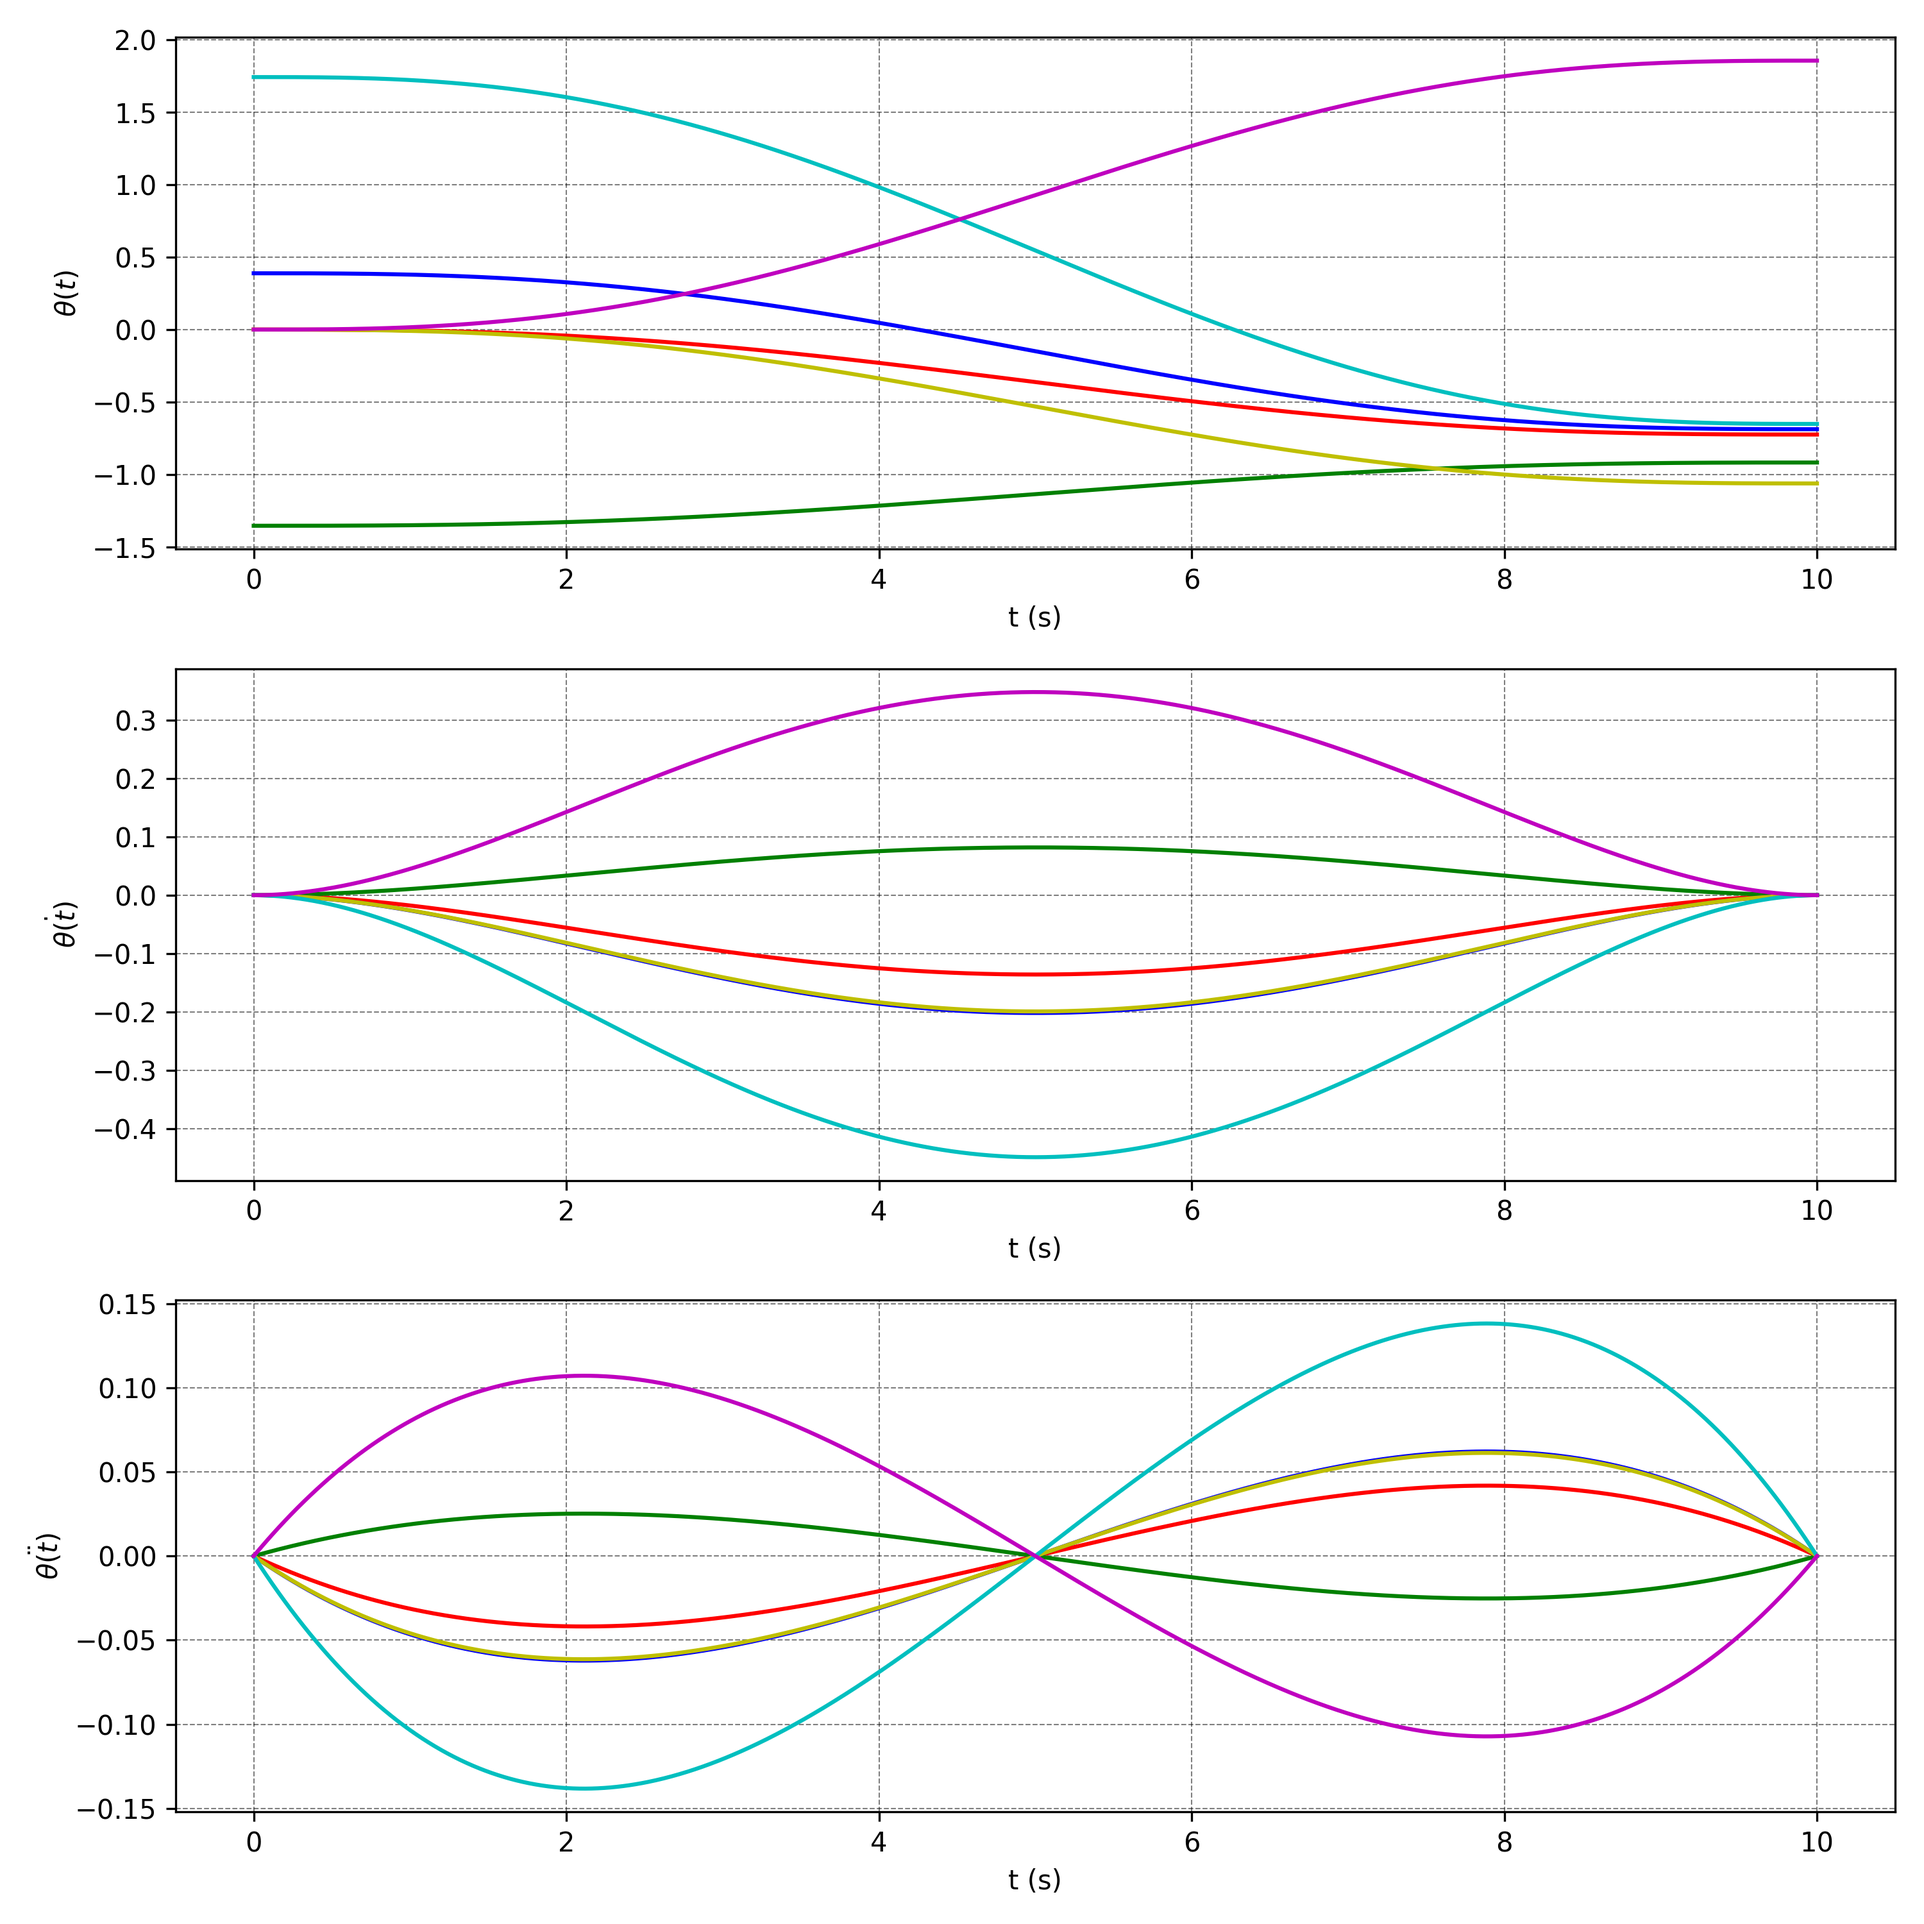
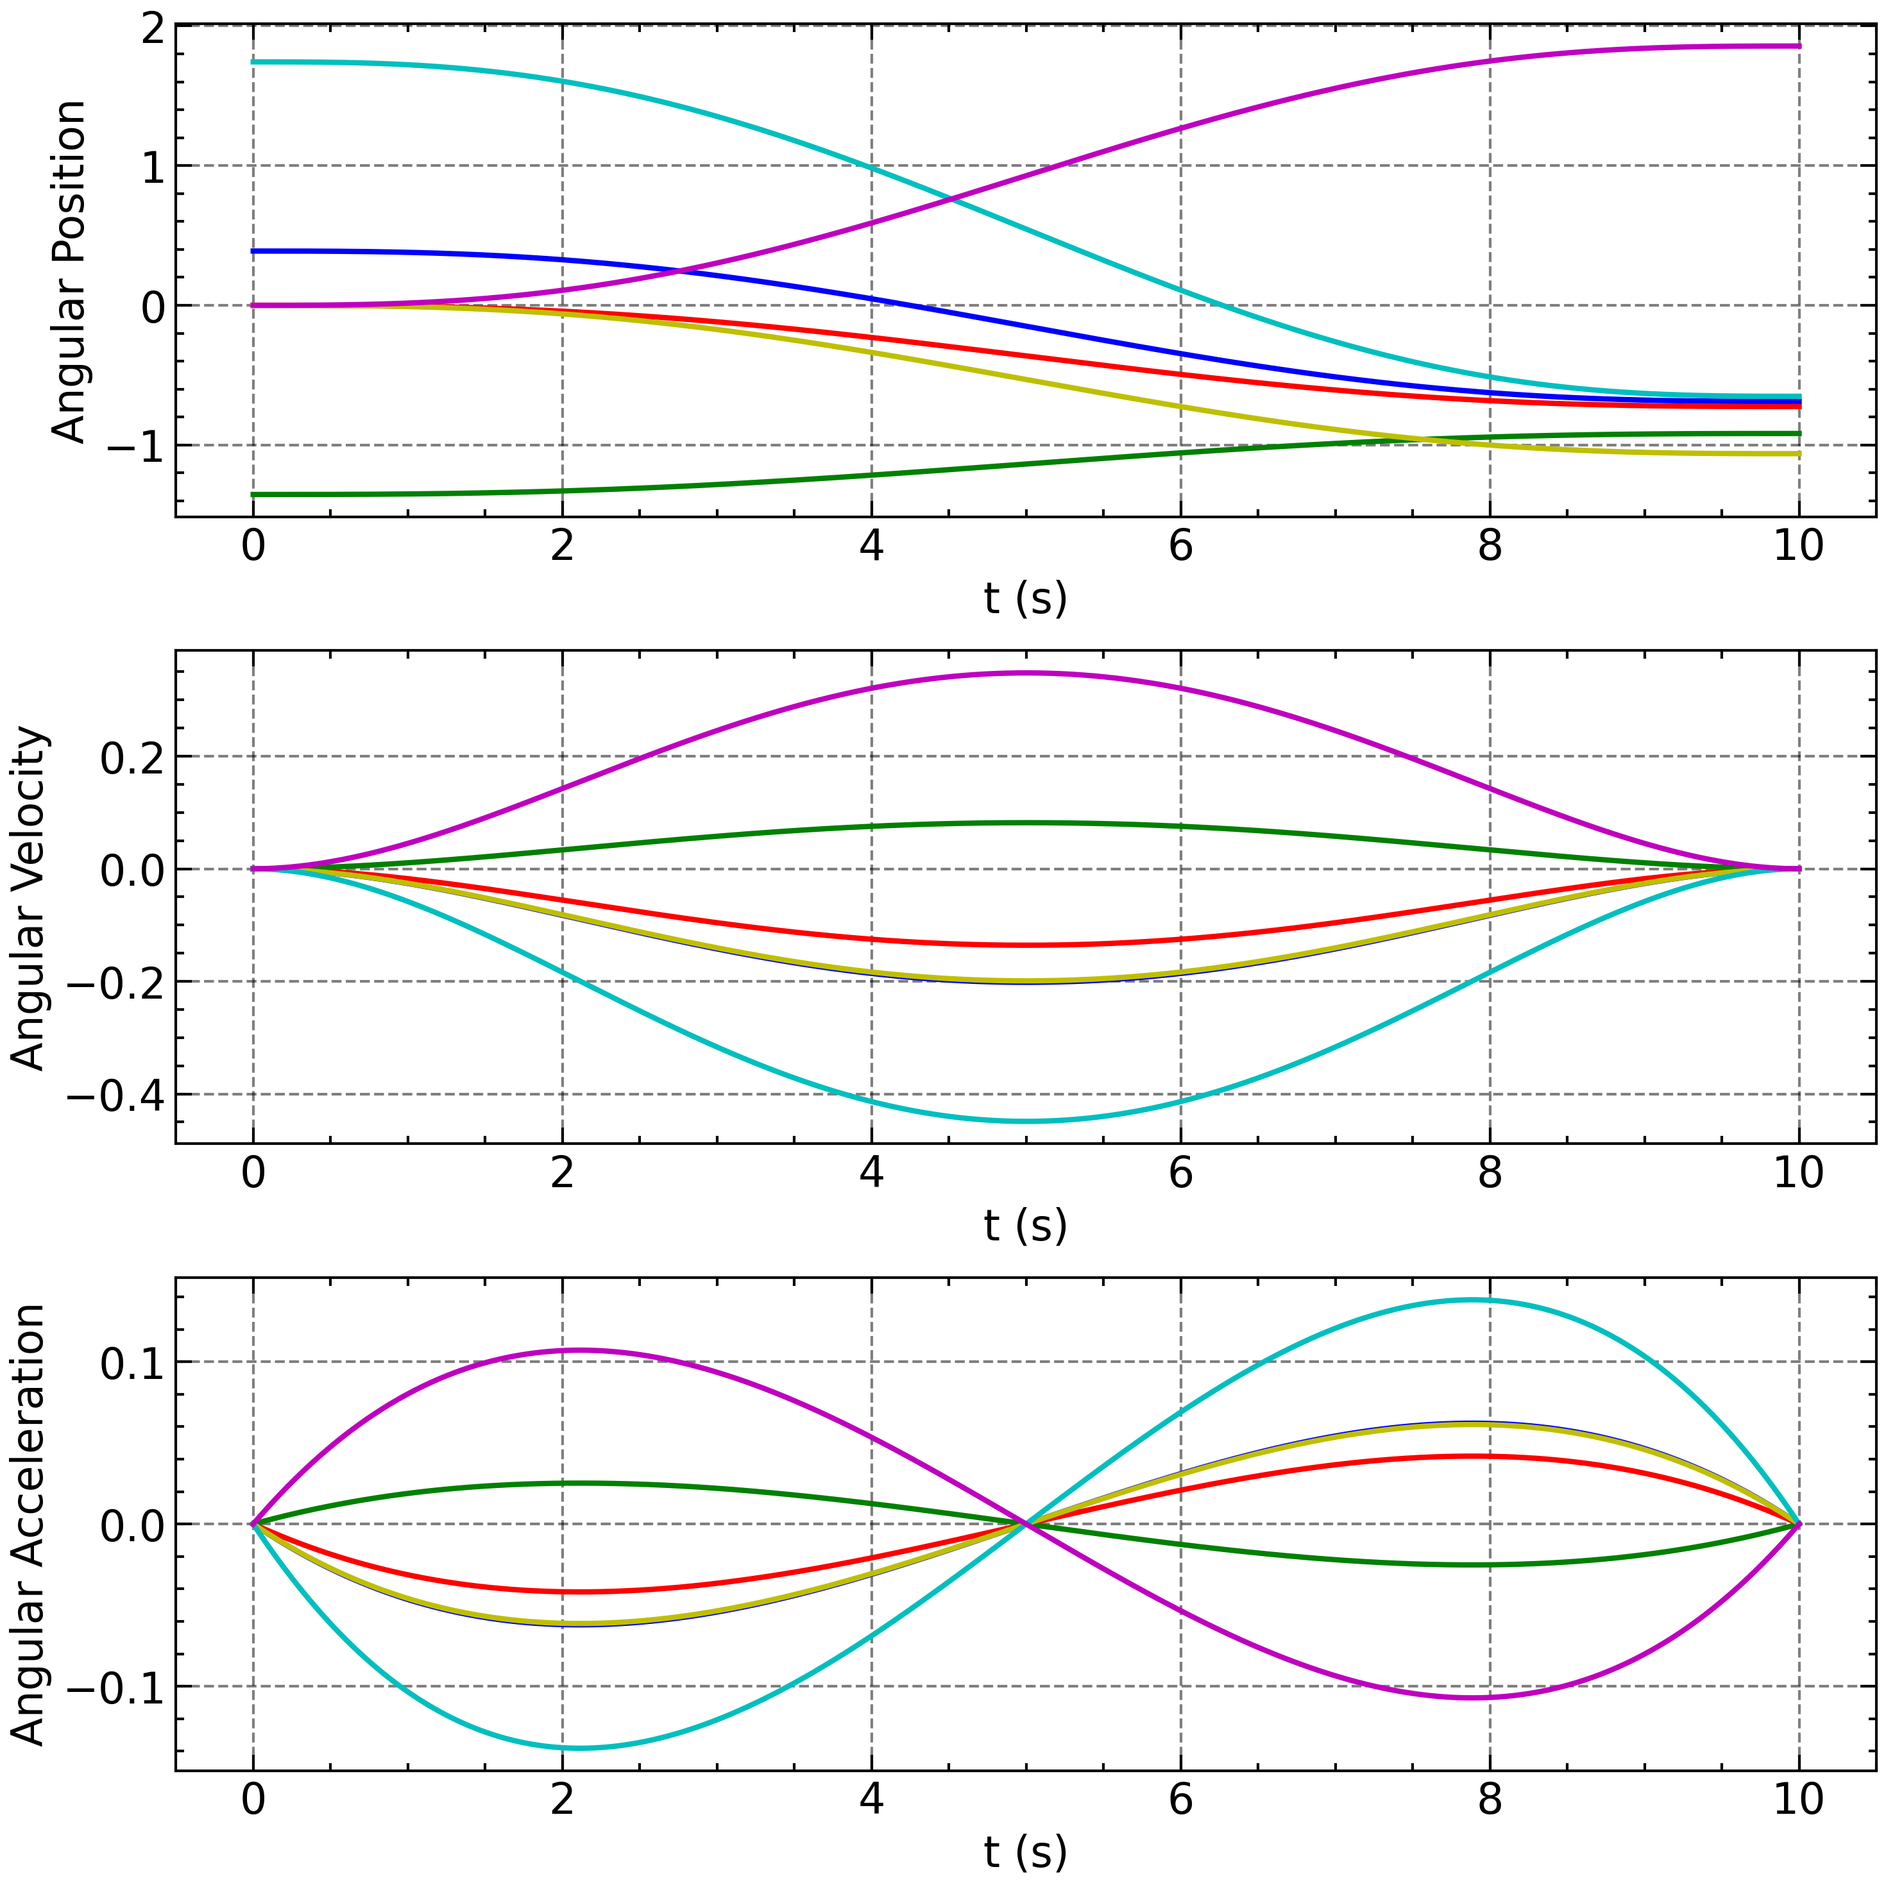
joint limits

diff --git a/lib/inverse_kinematics/__init__.py b/lib/inverse_kinematics/__init__.py
@@ -5,7 +5,7 @@ import sympy as sp
 
 from lib.forward_kinematics import ForwardKinematic
 from lib.frame import x_y_z_rotation_matrix, translation_matrix
-from lib.utils import matrix_log6, inverse_transformation, se3_to_vec
+from lib.utils import matrix_log6, inverse_transformation, se3_to_vec, normalize_angle_between_limits
 
 
 def ik_position(
@@ -15,7 +15,8 @@ def ik_position(
         f_tolerance=1e-7,
         max_iterations=1500,
         lmbd=.1,
-        verbose=False
+        verbose=False,
+        normalize=False
 ):
     desired_position = np.array([
         [desired_position[0]],
@@ -24,7 +25,7 @@ def ik_position(
     ])
 
     if initial_guess is None:
-        initial_guess = np.random.randn(fk.len_links)
+        initial_guess = np.random.uniform(0, 2 * np.pi, fk.len_links)
 
     theta_i = initial_guess.copy()
 
@@ -50,6 +51,19 @@ def ik_position(
 
     # Use theta_i + fk.offset in external applications
     # For calculations using this lib, use theta_i with the offset
+
+    if normalize:
+        for i in range(fk.len_links):
+            link_limits = fk.links[i].limits
+
+            theta = normalize_angle_between_limits(
+                theta_i[i],
+                link_limits[0],
+                link_limits[1]
+            )
+
+            theta_i[i] = theta
+
     return theta_i, desired_position, not error
 
 
@@ -57,13 +71,13 @@ def ik(
         desired_transformation=None,
         fk: ForwardKinematic = None,
         initial_guess=None,
-        epsilon_wb=1e-7,
-        epsilon_vb=1e-7,
-        max_iterations=1500,
+        epsilon_wb=1e-5,
+        epsilon_vb=1e-5,
+        max_iterations=1000,
         lmbd=.1,
         verbose=False,
         only_position=False,
-        normalize=False):
+        normalize=True):
     # finding the thetas only for the position
     if only_position:
         return ik_position(
@@ -83,7 +97,7 @@ def ik(
     # The end effector z-axis must be in the same direction and sign as the z-axis of the base frame z-axis
 
     if initial_guess is None:
-        initial_guess = np.zeros(fk.len_links)
+        initial_guess = np.random.uniform(0, 2 * np.pi, fk.len_links)
 
     desired_rotation = x_y_z_rotation_matrix(desired_transformation[3], desired_transformation[4],
                                              desired_transformation[5])
@@ -100,8 +114,8 @@ def ik(
         htm = fk.compute_ee_transformation_matrix(theta_i)
         i_htm = inverse_transformation(htm)
 
-        Tbd = i_htm @ desired_pose
-        log_tbd = matrix_log6(Tbd)
+        T_bd = i_htm @ desired_pose
+        log_tbd = matrix_log6(T_bd)
 
         s = se3_to_vec(log_tbd)
 
@@ -138,7 +152,15 @@ def ik(
             theta_i = theta_pos
 
     if normalize:
-        for i in range(len(theta_i)):
-            theta_i[i] = theta_i[i] % (2 * np.pi)
+        for i in range(fk.len_links):
+            link_limits = fk.links[i].limits
+
+            theta = normalize_angle_between_limits(
+                theta_i[i],
+                link_limits[0],
+                link_limits[1]
+            )
+
+            theta_i[i] = theta
 
     return theta_i, desired_pose, 'Full' if not error else 'Partial' if success_pos else 'None'

diff --git a/test_trajectory_generation.py b/test_trajectory_generation.py
@@ -1,20 +1,19 @@
 #  Copyright (c) Miguel L. Rodrigues 2022.
 
+import time
+import scienceplots
 import matplotlib.pyplot as plt
 import numpy as np
-from robodk.robolink import *
 
 from lib.inverse_kinematics import ik
 from lib.trajectory import Trajectory
 from robots.comau import comau_fk as fk
 
-# RDK = Robolink()
-# robot = RDK.Item('Comau Smart SiX 6-1.4')
-
 np.set_printoptions(suppress=True, precision=6)
 
 plt.style.use([
     'grid',
+    'notebook',
 ])
 
 lmbd_start = .1
@@ -97,12 +96,6 @@ for t in range(len(trajectories)):
     trajectories_velocities[t, :] = t_velocities
     trajectories_accelerations[t, :] = t_accelerations
 
-# for i in range(len(time_values)):
-#   ths = np.rad2deg(fk.get_angles_to_real_robot(trajectories_thetas[:, i]))
-#
-#   robot.setJoints(ths.tolist())
-#   print(time_values[i])
-
 fig, axs = plt.subplots(3, 1, figsize=(10, 10), tight_layout=True)
 
 for i in range(len(trajectories_thetas)):
@@ -111,13 +104,13 @@ for i in range(len(trajectories_thetas)):
     ac_line, = axs[2].plot(time_values, trajectories_accelerations[i], color=colors[i])
 
 axs[0].set_xlabel('t (s)')
-axs[0].set_ylabel(r'$\theta(t)$')
+axs[0].set_ylabel('Angular Position')
 
 axs[1].set_xlabel('t (s)')
-axs[1].set_ylabel(r'$\dot{\theta(t)}$')
+axs[1].set_ylabel('Angular Velocity')
 
 axs[2].set_xlabel('t (s)')
-axs[2].set_ylabel(r'$\ddot{\theta(t)}$')
+axs[2].set_ylabel('Angular Acceleration')
 
 plt.savefig('images/trajectories.png', dpi=300)
 plt.show()

diff --git a/robots/comau.py b/robots/comau.py
@@ -11,12 +11,23 @@ np.set_printoptions(suppress=True, precision=5)
 
 q1, q2, q3, q4, q5, q6 = sp.symbols('q_1 q_2 q_3 q_4 q_5 q_6')
 
-j0 = Link([q1, 450, 150, -sp.pi / 2])
-j1 = Link([q2, 0, 590, sp.pi])
-j2 = Link([q3, 0, 130, -sp.pi / 2])
-j3 = Link([q4, -647.07, 0, -sp.pi / 2])
-j4 = Link([q5, 0, 0, sp.pi / 2])
-j5 = Link([q6, -95, 0, 0])
+joint_limits = np.deg2rad(
+    np.array([
+        [-170, 170],
+        [-85, 155],
+        [-170, 0],
+        [-210, 210],
+        [-130, 130],
+        [-270, 270]
+    ])
+)
+
+j0 = Link([q1, 450, 150, -sp.pi / 2], limits=joint_limits[0])
+j1 = Link([q2, 0, 590, sp.pi], limits=joint_limits[1])
+j2 = Link([q3, 0, 130, -sp.pi / 2], limits=joint_limits[2])
+j3 = Link([q4, -647.07, 0, -sp.pi / 2], limits=joint_limits[3])
+j4 = Link([q5, 0, 0, sp.pi / 2], limits=joint_limits[4])
+j5 = Link([q6, -95, 0, 0], limits=joint_limits[5])
 
 tcp_angles_offset = np.array([
     0, np.pi / 2, -np.pi / 2, 0, 0, 0

diff --git a/lib/link/__init__.py b/lib/link/__init__.py
@@ -1,4 +1,4 @@
-from lib.utils import compute_link_transformation
+from lib.utils import compute_link_transformation, np
 
 
 class Link:
@@ -9,12 +9,17 @@ class Link:
             mass=None,
             transformation_matrix=None,
             inertia_tensor=None,
+            limits=None,
             link_type='R'
     ):
         self.dhp = dhp
         self.generalized_coordinate = generalized_coordinate
         self.inertia_tensor = inertia_tensor
+        self.limits = limits
         self.link_type = link_type
+
+        if limits is None:
+            self.limits = [-np.pi, np.pi]
 
         if generalized_coordinate is None and dhp is None:
             raise ValueError('Either generalized_coordinate or dhp must be specified')

diff --git a/test_ik.py b/test_ik.py
@@ -17,7 +17,7 @@ thetas, desired_pose, err = ik(
     fk=fk,
     lmbd=.1,
     only_position=False,
-    verbose=False
+    verbose=False,
 )
 
 end_time = time.time()
@@ -27,11 +27,15 @@ print('Elapsed time:', end_time - start_time)
 print(' ')
 
 print(' ')
-print('Found thetas:', np.rad2deg(fk.get_angles_to_real_robot(thetas)))
+print('Found thetas:', np.rad2deg(thetas))
 print('Success:', err)
 print(' ')
 
 print('Desired pose:\n', desired_pose)
 print(' ')
-print('Found pose:\n', fk.compute_ee_transformation_matrix(thetas))
+
+ee_transformation_matrix = fk.compute_ee_transformation_matrix(thetas)
+
+print('Found pose:\n', ee_transformation_matrix)
 print(' ')
+print('Norm: ', np.linalg.norm(desired_pose - ee_transformation_matrix))

diff --git a/lib/forward_kinematics/__init__.py b/lib/forward_kinematics/__init__.py
@@ -78,10 +78,10 @@ class ForwardKinematic:
         # return q with the offset to match the real robot
 
         if angles_offset:
-            q = q + self.joint_angle_offsets
+            q += self.joint_angle_offsets
 
         if angles_signal_offset:
-            q = q * self.angles_signals_offset
+            q *= self.angles_signals_offset
 
         return q
 

diff --git a/test_forward_dynamics.py b/test_forward_dynamics.py
@@ -1,10 +1,13 @@
 import sympy as sp
-
 from lib.forward_dynamics import ForwardDynamics
 from robots.comau import comau_fk as fk
 
 fd = ForwardDynamics(fk)
+i = 0
+
 for eq in fd.equations:
+    simplified = sp.simplify(eq)
+
     print(' ')
-    sp.print_latex(sp.simplify(eq))
+    sp.pprint(simplified.args)
     print(' ')
